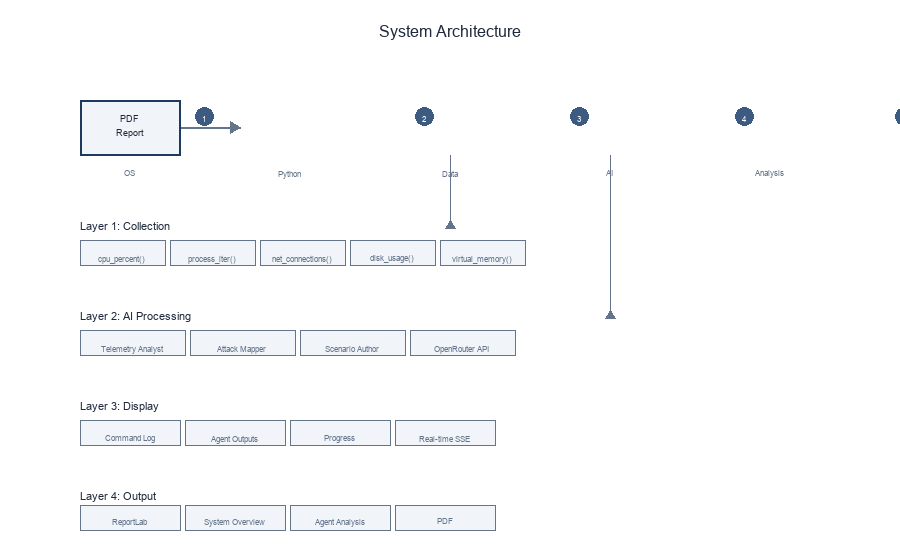
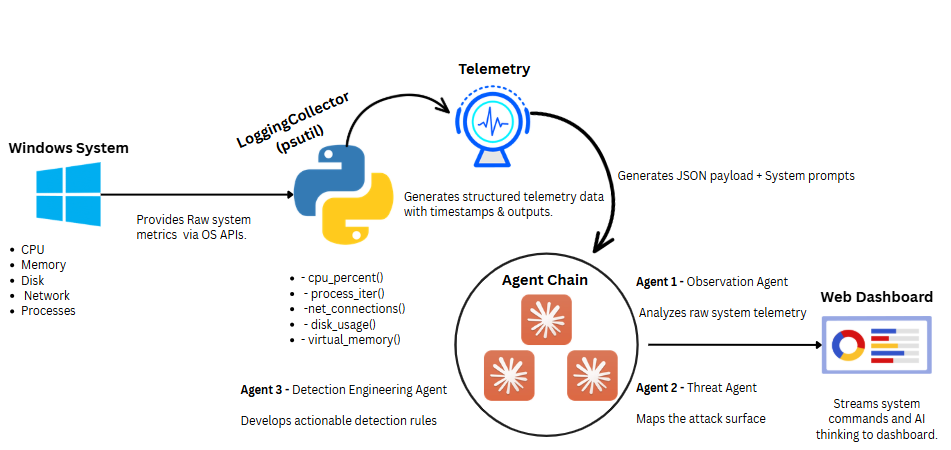
docs: update architecture diagram and explanation in README.md
Replaced `docs/architecture.png` with a new version of the architecture diagram.
Updated the System Architecture section in `README.md` to feature a centered
diagram title and replaced the old layer-based explanation with a new
flow-by-flow explanation that reflects the five stages shown in the new diagram
(Windows System -> LoggingCollector -> Telemetry -> Agent Chain -> Web Dashboard).

diff --git a/README.md b/README.md
@@ -34,6 +34,8 @@ Watch analysis unfold in real-time. Telemetry collection appears command-by-comm
 
 ## System Architecture
 
+<h3 align="center">System Architecture Diagram</h3>
+
 <figure>
 <p align="center">
   <img src="docs/architecture.png" alt="System Architecture Diagram" width="850"/>
@@ -41,23 +43,30 @@ Watch analysis unfold in real-time. Telemetry collection appears command-by-comm
 <figcaption align="center"><b>Figure 1:</b> System Architecture</figcaption>
 </figure>
 
-The system consists of four layers that work sequentially to collect, process, analyze, and report on system telemetry.
+The system follows a sequential flow from raw data collection to AI analysis and dashboard visualization.
 
-**Layer 1: Data Collection**
+**1. Windows System**
 
-The LoggingCollector module uses psutil to execute system calls for cpu_percent, process_iter, net_connections, disk_usage, and virtual_memory. Each command is logged with its timestamp, raw output, execution duration, and success status. Events stream to the dashboard via Server-Sent Events.
+The system begins by extracting raw metrics via OS APIs, capturing essential data points such as CPU, Memory, Disk, Network, and Processes.
 
-**Layer 2: AI Processing**
+**2. LoggingCollector (psutil)**
 
-The Agent Chain sends telemetry to three AI agent instances. Agent 1 (Observations) extracts factual observations from raw data. Agent 2 (Threats) maps attack surface and risks. Agent 3 (Detection Engineering) generates actionable detection rules and SIEM queries. All responses stream token-by-token to the dashboard.
+A Python-based collector leverages `psutil` to execute specific functions (`cpu_percent()`, `process_iter()`, `net_connections()`, `disk_usage()`, and `virtual_memory()`).
 
-**Layer 3: Dashboard Display**
+**3. Telemetry**
 
-Flask hosts the web interface and API endpoints. The Command Log tab displays system commands and raw outputs in terminal format. The Visualizations tab shows charts and data tables. The Agent Outputs tab shows full Claude AI analysis.
+The raw data is structured into telemetry with timestamps and outputs, generating a JSON payload alongside system prompts to feed into the AI layer.
 
-**Layer 4: Report Generation**
+**4. Agent Chain**
 
-ReportLab generates professional PDF reports containing system overview, telemetry summary, threat analysis, MITRE ATT&CK scenarios, and all agent outputs. Reports download after analysis completes.
+The telemetry payload is passed to a chain of specialized AI agents:
+- **Agent 1 - Observation Agent**: Analyzes the raw system telemetry.
+- **Agent 2 - Threat Agent**: Maps the attack surface based on the observations.
+- **Agent 3 - Detection Engineering Agent**: Develops actionable detection rules.
+
+**5. Web Dashboard**
+
+Finally, the system streams the collected system commands and the AI thinking process directly to the Web Dashboard for real-time monitoring and analysis.
 
 ---
 
